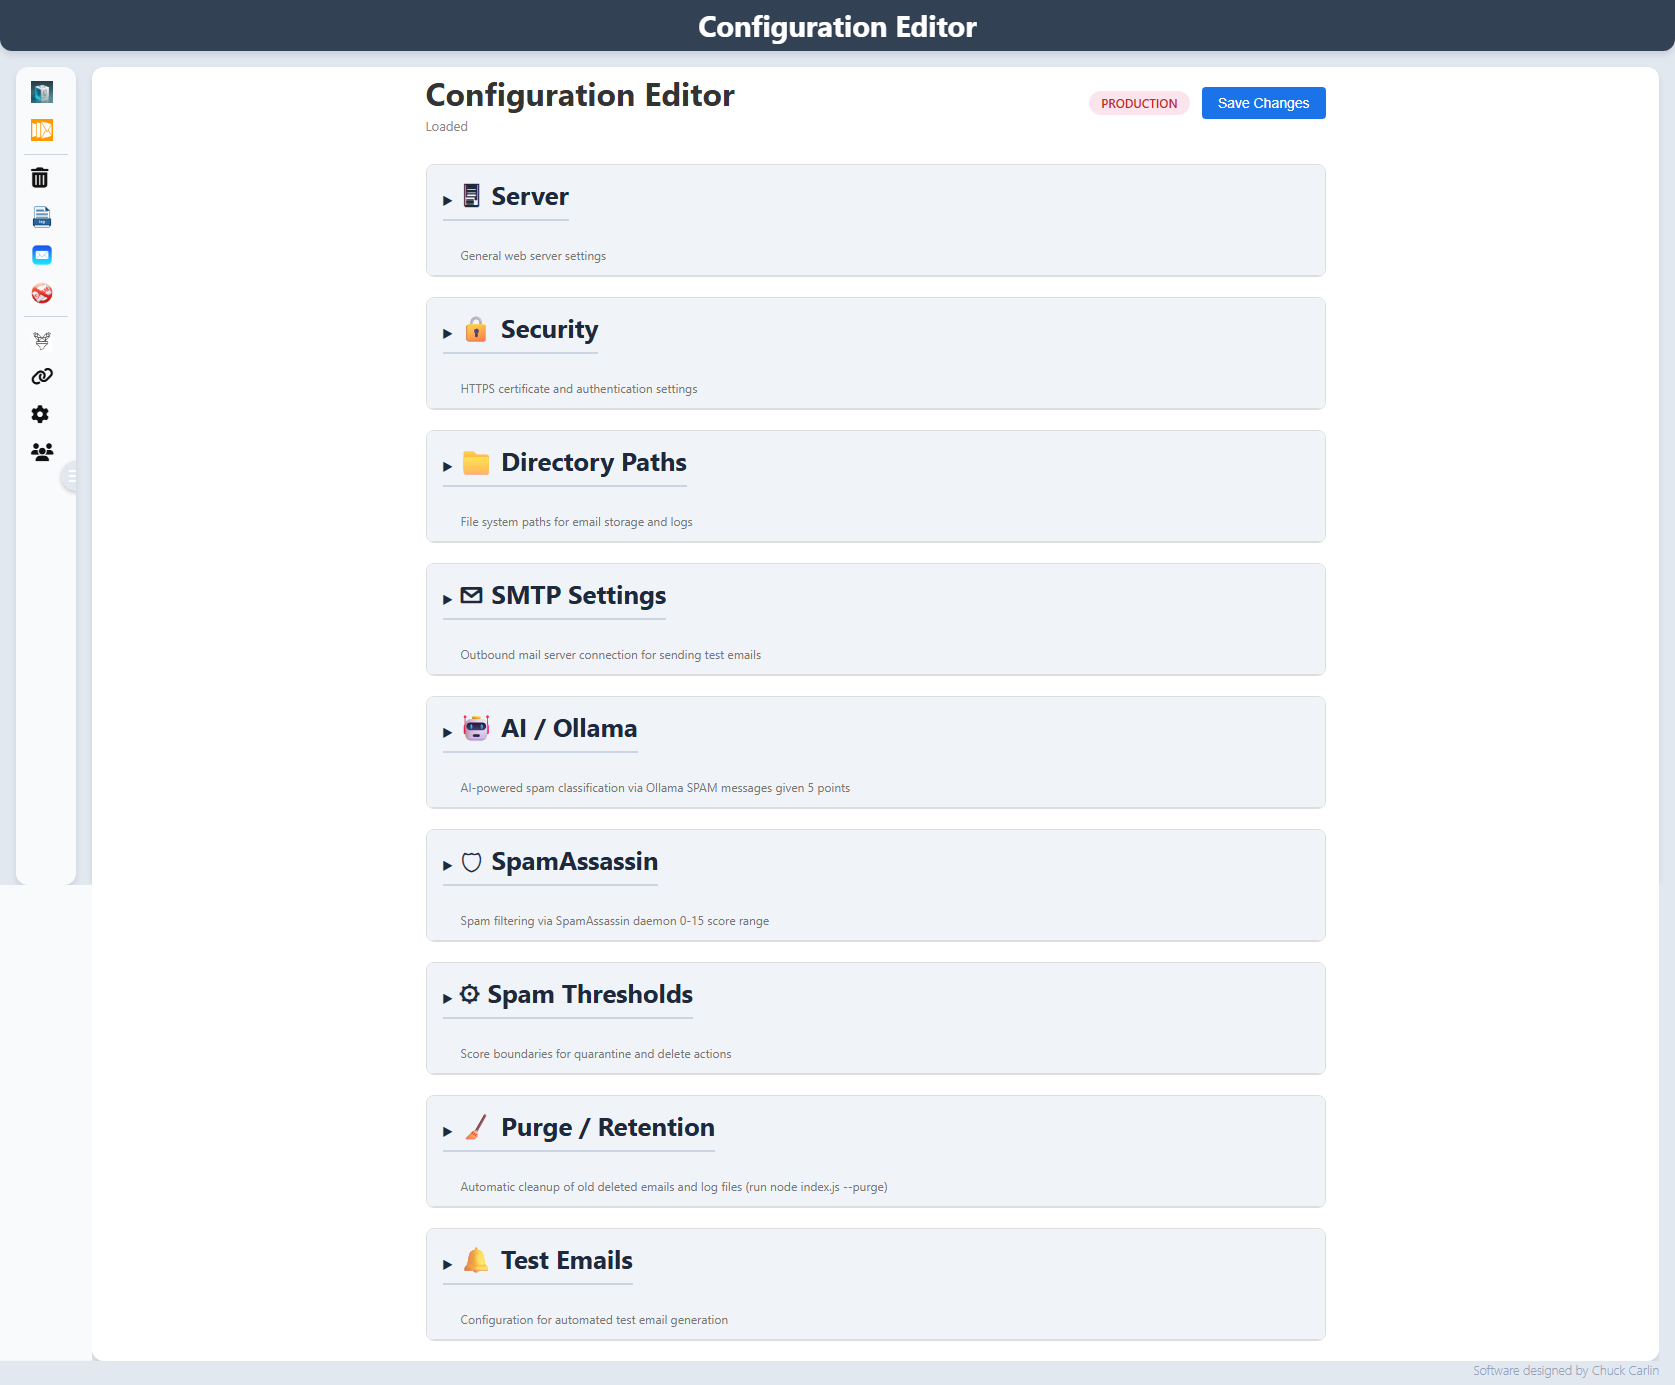
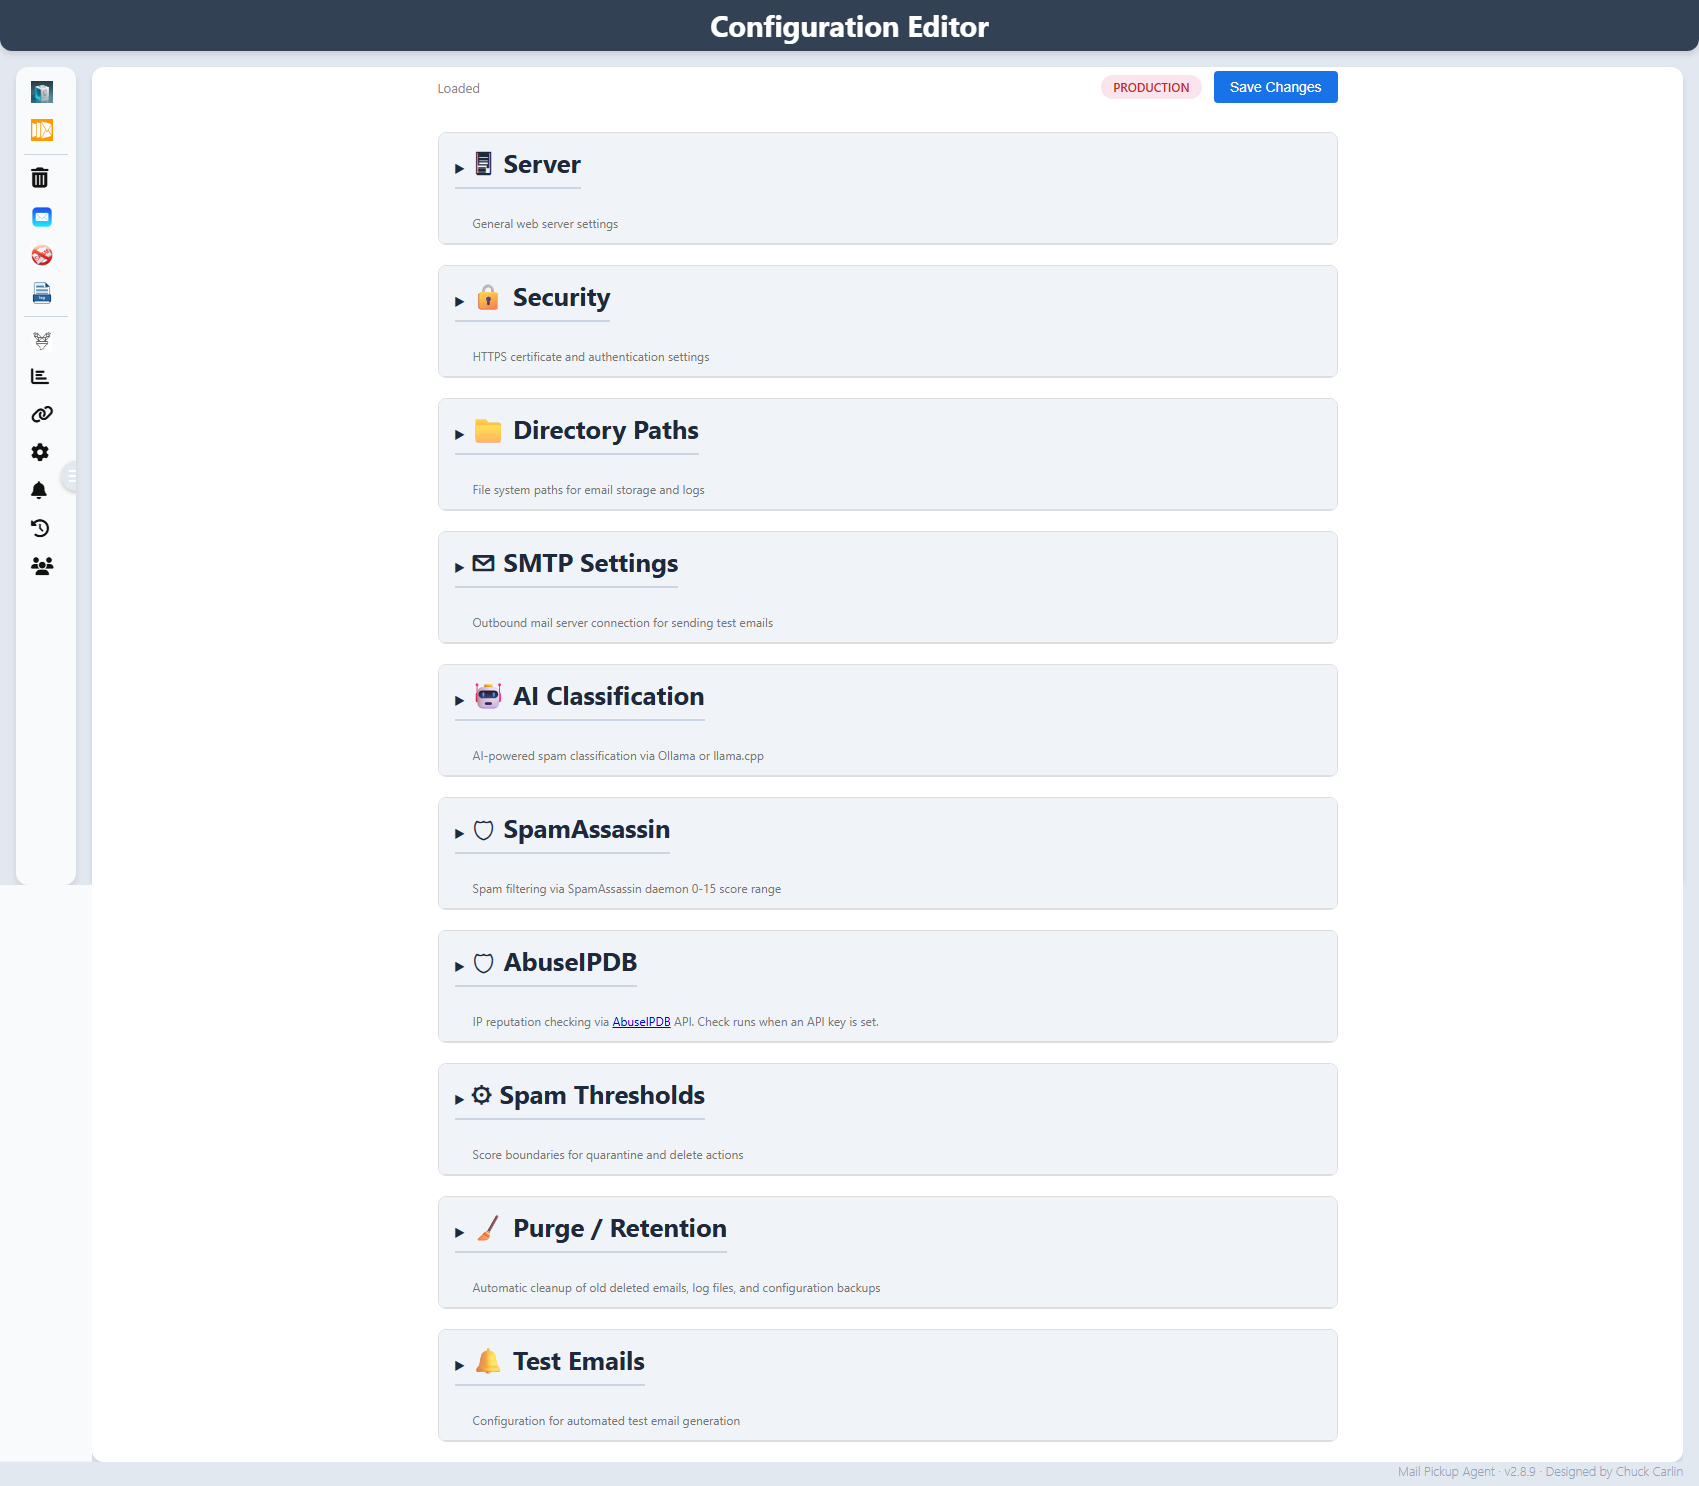
Updating readme (in progress) and screenshots, fixed sorting issue in quarantine log

diff --git a/README.md b/README.md
@@ -208,14 +208,18 @@ Then open `http://localhost:6245` in a browser. The web UI provides:
 |---|---|
 | ![Default Status Page](public/img/Screenshots/Default%20Status%20Page.png) | ![Configuration Editor](public/img/Screenshots/Configuration%20Editor.png) |
 | Default landing page with server dashboard | View and edit all settings |
-| ![Rules Editor](public/img/Screenshots/Rules%20Editor.png) | ![Quarantine Manager](public/img/Screenshots/Mailq%20Link%20Generator.png) |
+| ![Rules Editor](public/img/Screenshots/Rules%20Editor.png) | ![Quarantine Manager](public/img/Screenshots/Quarantine%20Log.png) |
 | Manage whitelist, blacklist, and keyword filters | Review, release, or delete quarantined emails |
 | ![Deleted Emails Recovery](public/img/Screenshots/Deleted%20Emails%20Recovery.png) | ![Processing Log](public/img/Screenshots/Mail%20Log%20-%20Email%20Analyzer.png) |
 | Browse and recover deleted emails | View daily processing logs |
 | ![Quarantine Log](public/img/Screenshots/Quarantine%20Log.png) | ![SMTP Log Analyzer](public/img/Screenshots/MailEnable%20SMTP%20Log%20viewer.png) |
 | View quarantine action logs | Analyze MailEnable SMTP logs |
-| ![Session Manager](public/img/Screenshots/Session%20Manager.png) | |
-| Manage active sessions | |
+| ![Config History](public/img/Screenshots/Config%20History.png) | ![Rule Hits](public/img/Screenshots/Rule%20Hits.png) |
+| Browse, diff, and restore configuration backups | Track and view rule hit counts |
+| ![Rule Hits Chart](public/img/Screenshots/Rule%20Hits%20Chart.png) | ![Notifications Admin](public/img/Screenshots/Notifications%20Admin.png) |
+| Visualize rule hit activity | Manage notification subscriptions |
+| ![Session Manager](public/img/Screenshots/Session%20Manager.png) | | ![Manage Access Links](public/img/Screenshots/Mailq%20Link%20Generator.png)
+| Manage active sessions | Manage Access Links to Mailq page per user | 
 
 It is recommended that you use PM2 or a similar tool to ensure that the server is always running.  
 Make sure to exclude logging directories and quarantine/deleted directories from any watch settings to avoid unnecessary restarts.
